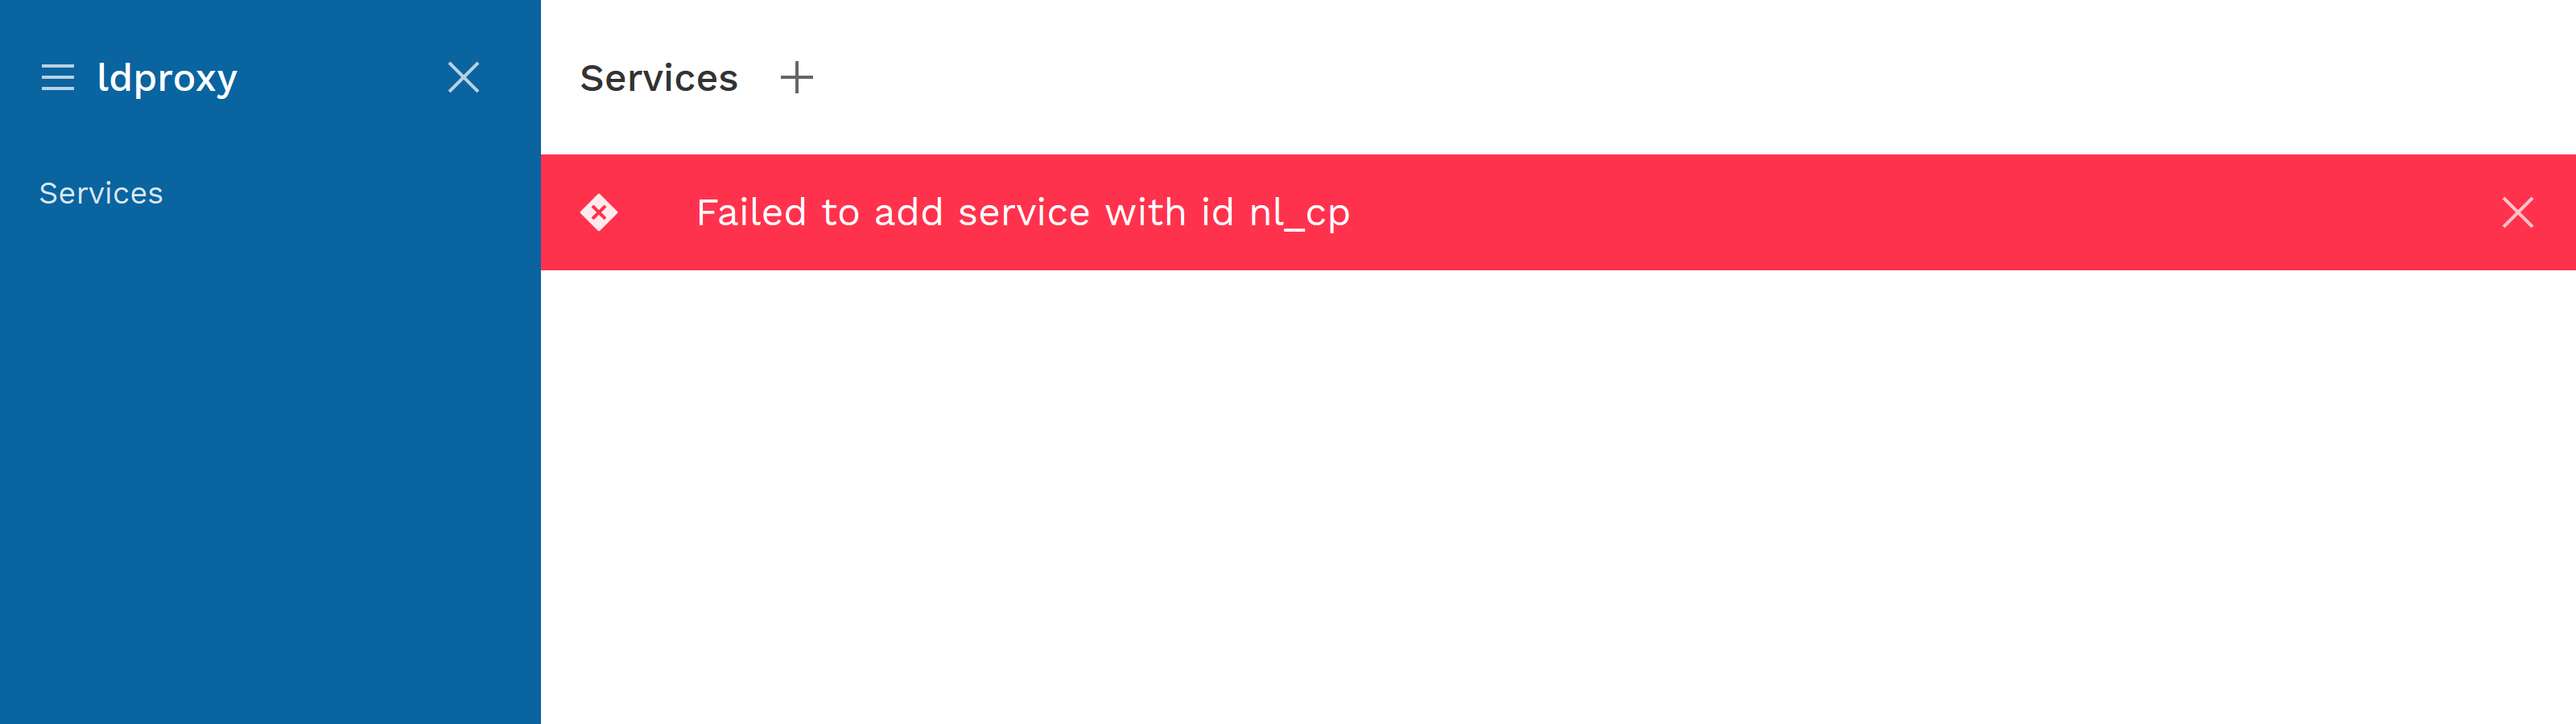
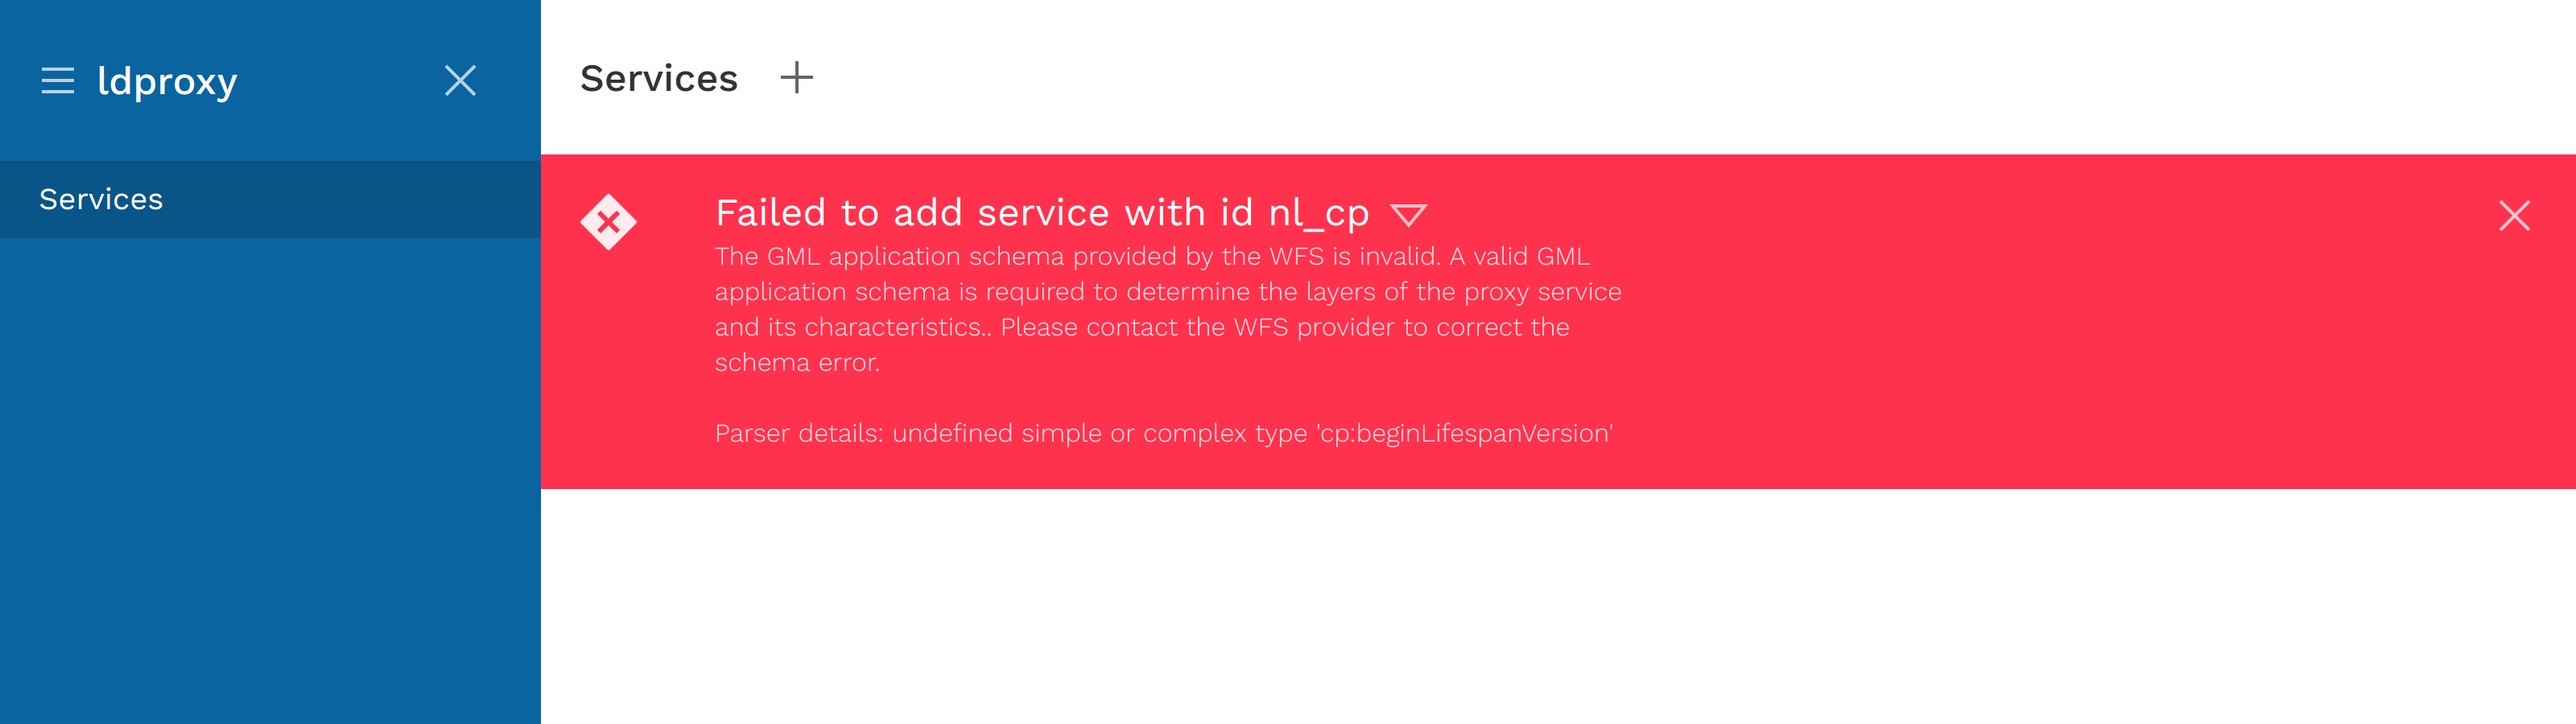
ghpages docs

diff --git a/docs/manual/01-managing-services.md b/docs/manual/01-managing-services.md
@@ -14,10 +14,10 @@ A dialog will appear where you can enter a service identifier and the URL of the
 
 ![ldproxy Manager - new service](../img/manager-03.png)
 
-We will use a WFS from the Netherlands as an example: http://services.rce.geovoorziening.nl/landschapsatlas/wfs?service=WFS&request=GetCapabilities
+We will use a WFS from the Netherlands as an example:
 
-ID: landschapsatlas
-WFS URL: http://services.rce.geovoorziening.nl/landschapsatlas/wfs
+- ID: landschapsatlas
+- WFS URL: [http://services.rce.geovoorziening.nl/landschapsatlas/wfs](http://services.rce.geovoorziening.nl/landschapsatlas/wfs?service=WFS&request=GetCapabilities)
 
 ![ldproxy Manager - add landschapsatlas](../img/manager-04.png)
 
@@ -25,11 +25,11 @@ When you press `Add`, ldproxy will analyze the WFS and configure the proxy servi
 
 ![ldproxy Manager - adding landschapsatlas](../img/manager-05.png)
 
-Once the service is configured, it should switch its state from `Initializing` to `Online`.
+Once the service is configured, it will switch its state from `Initializing` to `Online`.
 
 ![ldproxy Manager - added landschapsatlas](../img/manager-06.png)
 
-If an issue is identified, a message should explain why a service cannot be created. A typical issue are invalid or missing schemas. The logs may also contain additional information (see [deployment guide](../manual/00-deployment.md) for how to access the ldproxy log).
+If an issue with the service is identified, a message appears. Clicking on the arrow shows the details why a service cannot be created. A typical issue are invalid or missing schemas.
 
 ![ldproxy Manager - failure](../img/manager-07.png)
 
@@ -43,7 +43,7 @@ To start browsing the proxy service, click on `View` at the right. That will lea
 
 ## Changing the service configuration
 
-Using the ldproxy manager you can also change the configuration of proxy services. Here we will explain a few typical changes that are often helpful to improve how the feature data is displayed in the HTML.
+Using the ldproxy manager you can also change the configuration of proxy services. Here we will explain a few typical changes that are often helpful to improve how the feature data is displayed in the HTML pages.
 
 #### Change the label used to display a feature type to a more human friendly name
 

diff --git a/README.md b/README.md
@@ -19,7 +19,7 @@ docker run -d -p 7080:7080 -v ldproxy_data:/ldproxy/data iide/ldproxy
 ```
 For more information, have a look at the [deployment guide](docs/manual/00-deployment.md).
 
-When your container is up and running, have a look at [managing services](docs/manual/01-managing-services.md) (also available as [slides](https://gitpitch.com/interactive-instruments/ldproxy?p=docs/slides/managing-services)).
+When your container is up and running, have a look at the [documentation](http://interactive-instruments.github.io/ldproxy/) (also available as [slides](https://gitpitch.com/interactive-instruments/ldproxy?p=docs/slides/managing-services)).
 
 ## Development
 The only requirement is an installation of JDK 8.  
